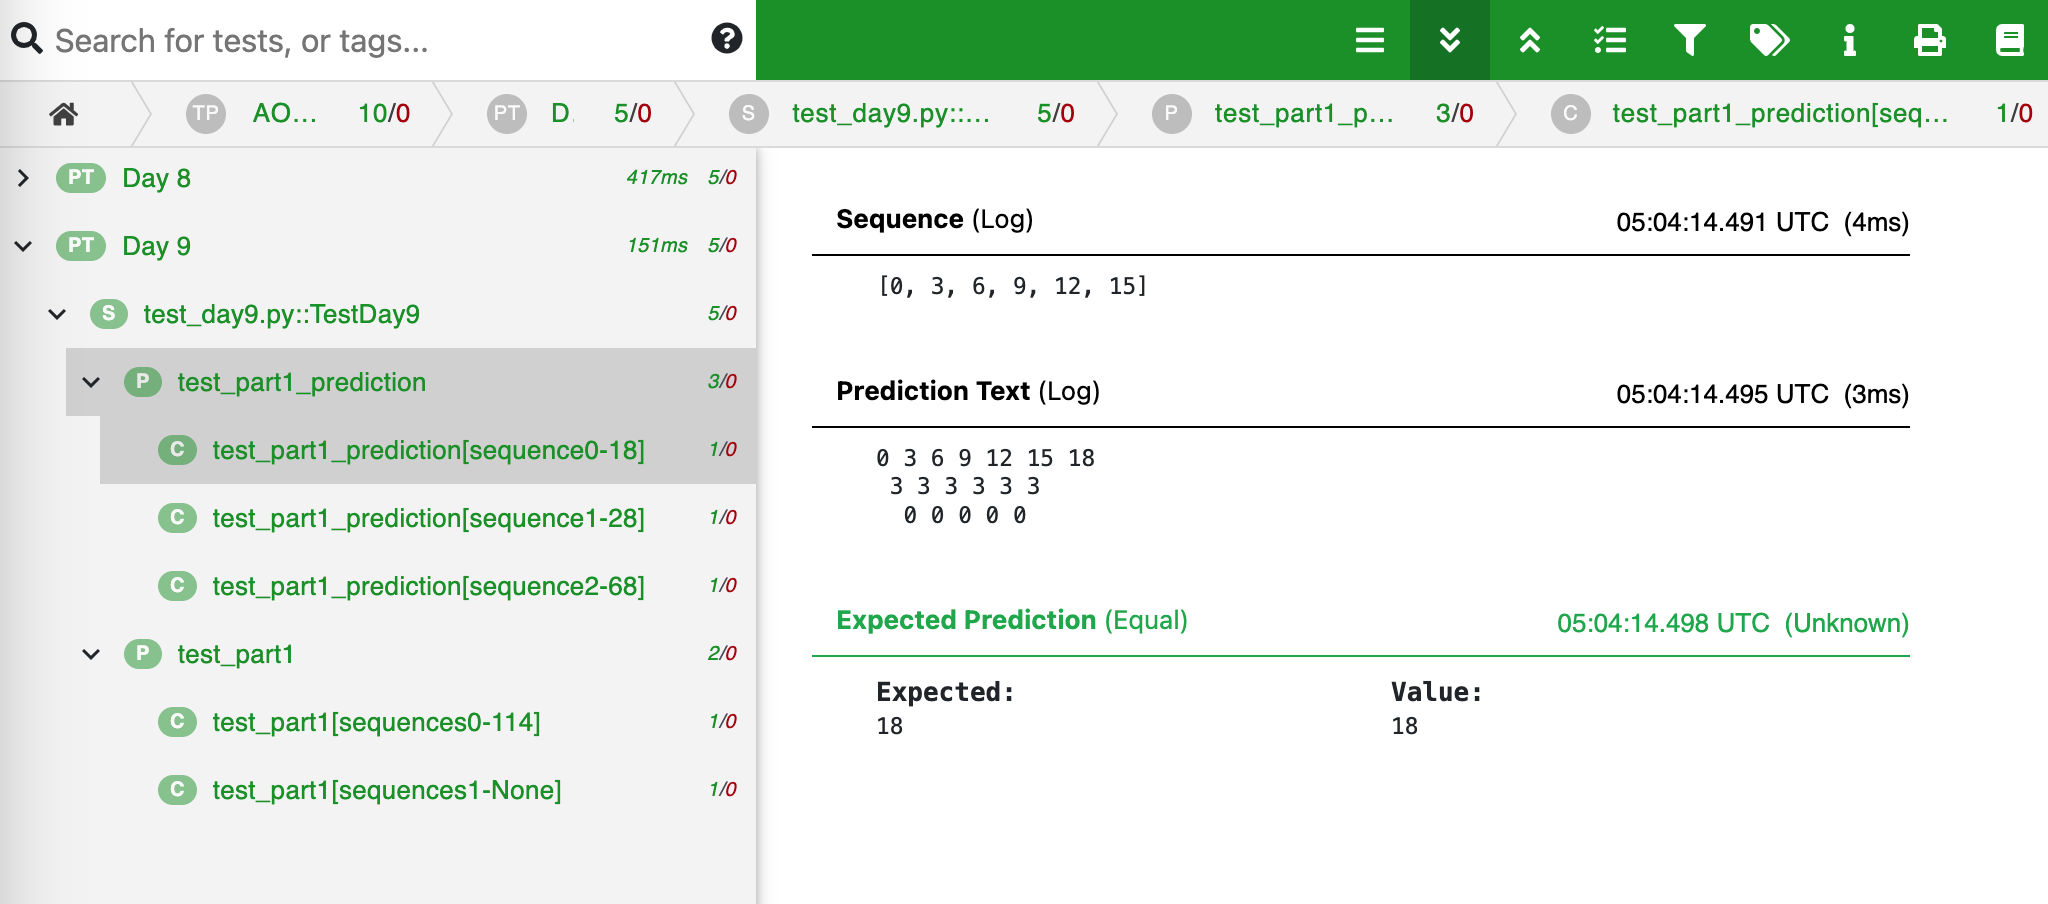
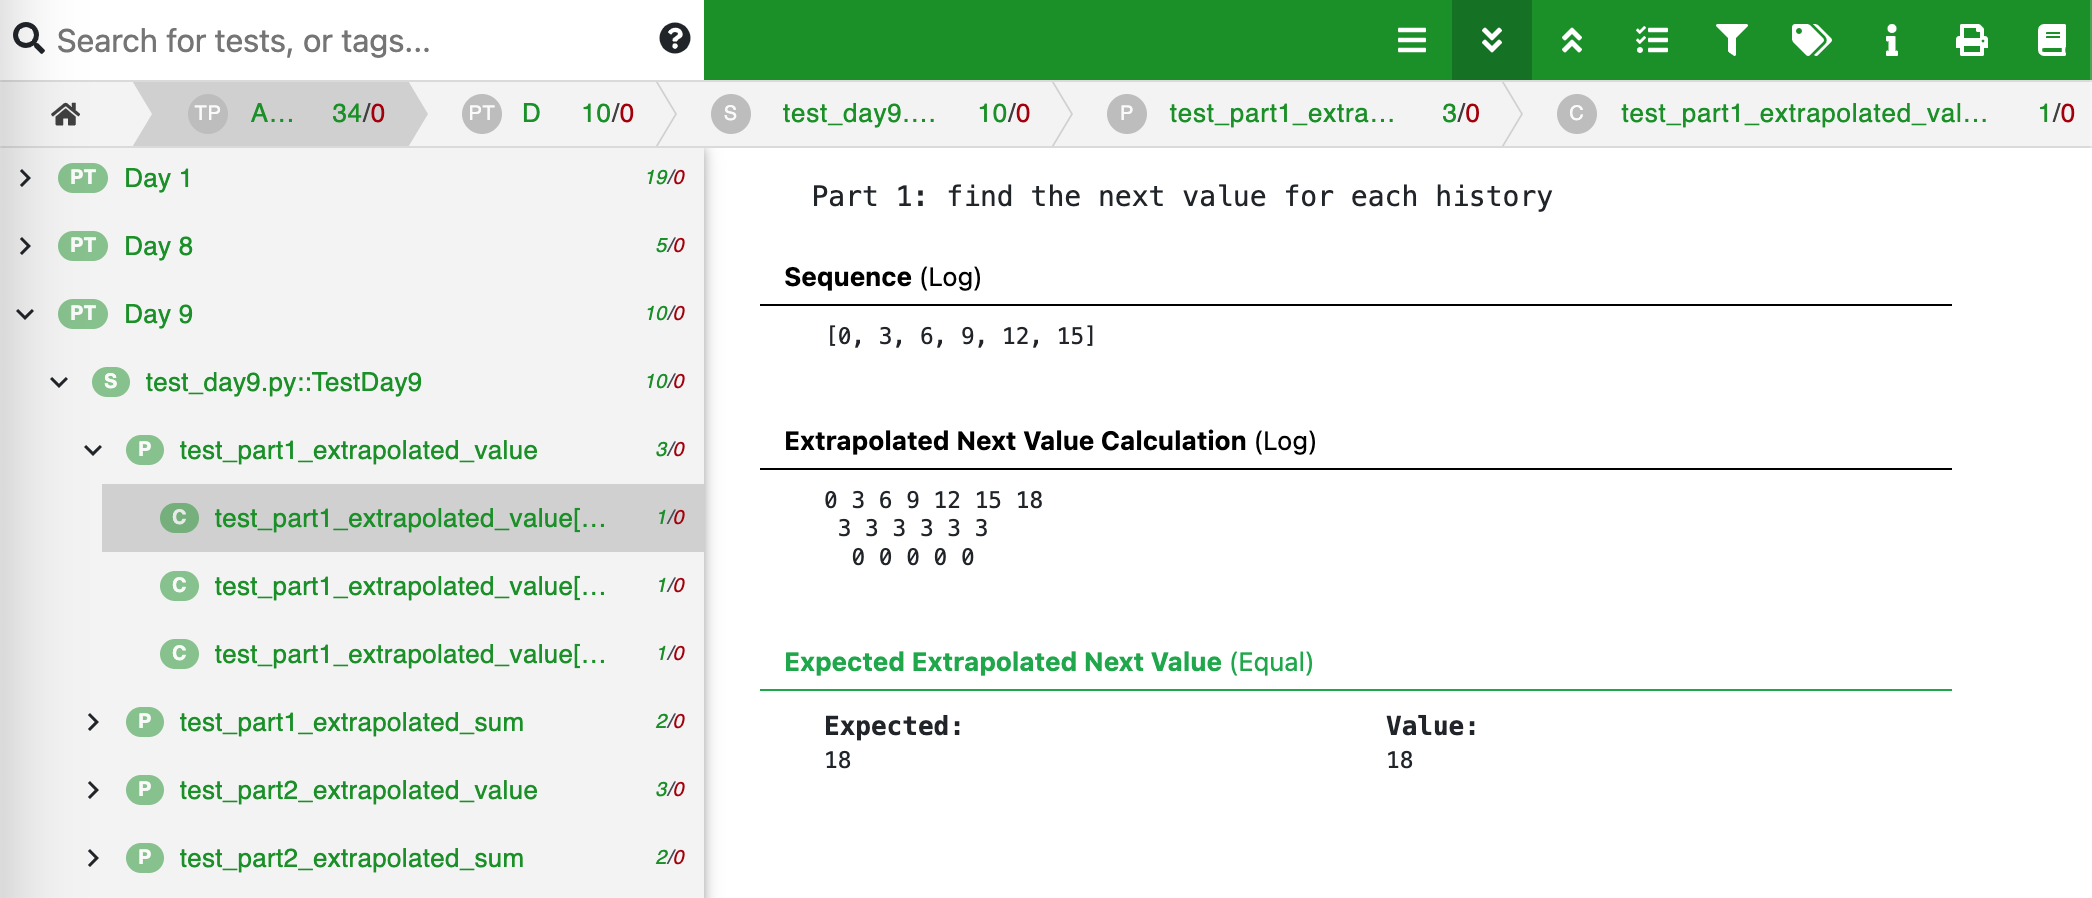
tidy up

diff --git a/tests/test_day9.py b/tests/test_day9.py
@@ -20,6 +20,8 @@ class TestDay9:
         ],
     )
     def test_part1_extrapolated_value(self, env, result: Result, sequence, expected):
+        '''Part 1: find the next value for each history'''
+
         result.log(sequence, description='Sequence')
 
         prediction, prediction_sequences = get_extrapolated_value_from_sequence(
@@ -40,6 +42,8 @@ class TestDay9:
         ],
     )
     def test_part1_extrapolated_sum(self, env, result: Result, sequences, expected):
+        '''Part 1: sum of all extrapolated next values'''
+
         result.log(sequences, description='Sequences')
 
         prediction_sum = get_extrapolated_sum_from_sequences(sequences)
@@ -61,6 +65,8 @@ class TestDay9:
         ],
     )
     def test_part2_extrapolated_value(self, env, result: Result, sequence, expected):
+        '''Part 2: find the previous value for each history'''
+
         result.log(sequence, description='Sequence')
 
         prediction, prediction_sequences = get_extrapolated_value_from_sequence(
@@ -84,6 +90,8 @@ class TestDay9:
         ],
     )
     def test_part2_extrapolated_sum(self, env, result: Result, sequences, expected):
+        '''Part 2: sum of all extrapolated previous values'''
+
         result.log(sequences, description='Sequences')
 
         prediction_sum = get_extrapolated_sum_from_sequences(

diff --git a/tests/test_day1.py b/tests/test_day1.py
@@ -45,10 +45,11 @@ class TestDay1:
     def test_part1_calibration_sum(self, env, result: Result, input, expected):
         '''Part 1: Sum of calibration values'''
         result.log(input, description='input')
+        actual = get_calibration_sum(input)
         if expected is not None:
-            result.eq(get_calibration_sum(input), expected, description='Expected Sum')
+            result.eq(actual, expected, description='Expected Sum')
         else:
-            result.log(get_calibration_sum(input), description='Sum')
+            result.log(actual, description='Sum')
 
     @pytest.mark.parametrize(
         'input, expected',
@@ -87,11 +88,12 @@ class TestDay1:
     ):
         '''Part 2: Sum of calibration values with transform'''
         result.log(input, description='input')
+        actual = get_calibration_sum_with_transform(input)
         if expected is not None:
             result.eq(
-                get_calibration_sum_with_transform(input),
+                actual,
                 expected,
                 description='Expected Sum',
             )
         else:
-            result.log(get_calibration_sum_with_transform(input), description='Sum')
+            result.log(actual, description='Sum')
